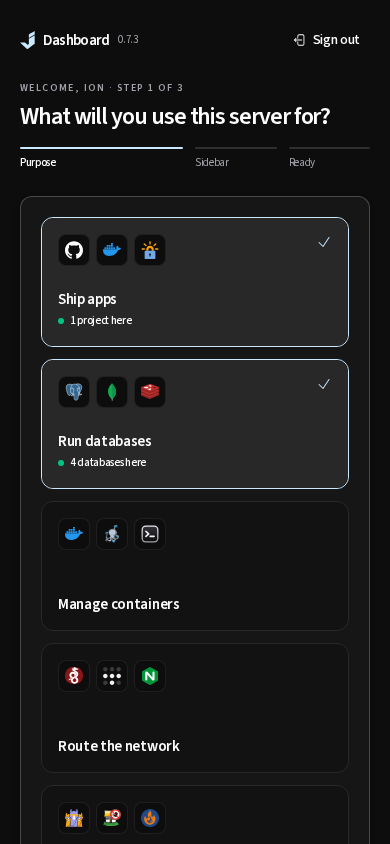
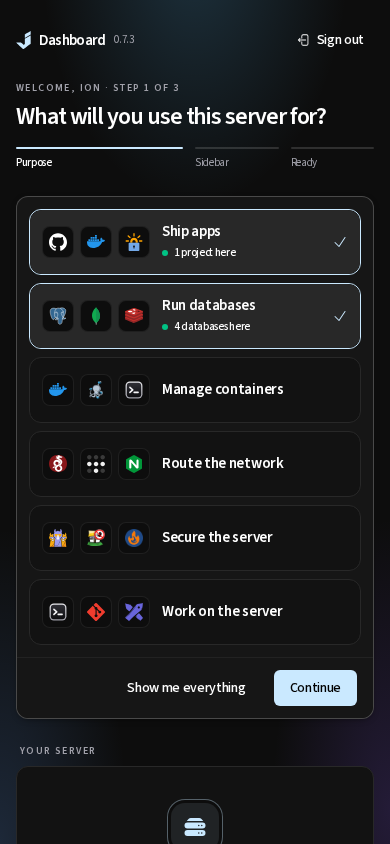
Retake the onboarding screenshots after the sign-in redraw, and add sign-in's own

diff --git a/docs/audits/2026-10-12-onboarding/README.md b/docs/audits/2026-10-12-onboarding/README.md
@@ -62,15 +62,18 @@ The answer is stored on the account, not in the browser, so it follows the perso
 
 | What | Where |
 | --- | --- |
-| The whole walk: sign-in, the three steps, the dashboard, a project's domain opening the hidden proxy, search, Workspace | [Recording (mp4)](onboarding.mp4) · [GIF](onboarding.gif) |
+| The whole walk: sign-in, the three steps, the dashboard, a project's domain opening the hidden proxy, search, Workspace — recorded before sign-in and the three steps were redrawn | [Recording (mp4)](onboarding.mp4) · [GIF](onboarding.gif) |
+| Sign-in, its code step, and a forced password change on a phone | [1280](sign-in-1280.png), [390](sign-in-390.png), [code at 1280](sign-in-code-1280.png), [new password at 390](sign-in-new-password-390.png) |
 | Step 1 at 1280 / 1720 / 390 | [1280](purpose-1280.png), [1720](purpose-1720.png), [390](purpose-390.png) |
-| Step 2, section tiles beside the preview, at 1280 / 1720 | [1280](sidebar-1280.png), [1720](sidebar-1720.png) |
+| Step 2, section tiles beside the preview, at 1280 / 1720 / 390 | [1280](sidebar-1280.png), [1720](sidebar-1720.png), [390](sidebar-390.png) |
 | Step 3 at 1280 / 390 | [1280](ready-1280.png), [390](ready-390.png) |
 | The Overview with Proxy, Network, Security and the rest hidden | [1280](overview-1280.png) |
 | A deployment's domain opening the hidden proxy, the rail's note | [1280](hidden-section-1280.png), [1720](hidden-section-1720.png) |
 | Account → Workspace | [1280](workspace-1280.png), [1720](workspace-1720.png) |
 
 `frontend/scripts/record-onboarding.ts` records the walk and the 1280 screenshots against the
-browser fixture (`tests/browser/onboarding-fixture.ts`). That fixture layers three existing mocks:
+browser fixture (`tests/browser/onboarding-fixture.ts`). The sign-in and step screenshots were
+retaken against the same fixture after the redraw that gave both screens the arrival ground, the
+product orbit and a phone layout (`docs/internal/frontend/shell-design.md`, *Signing in*). That fixture layers three existing mocks:
 the deployment project, the proxy showcase, and the host with the Overview's reads. The mp4 and the
 GIF are ffmpeg conversions of the script's `onboarding.webm`.
